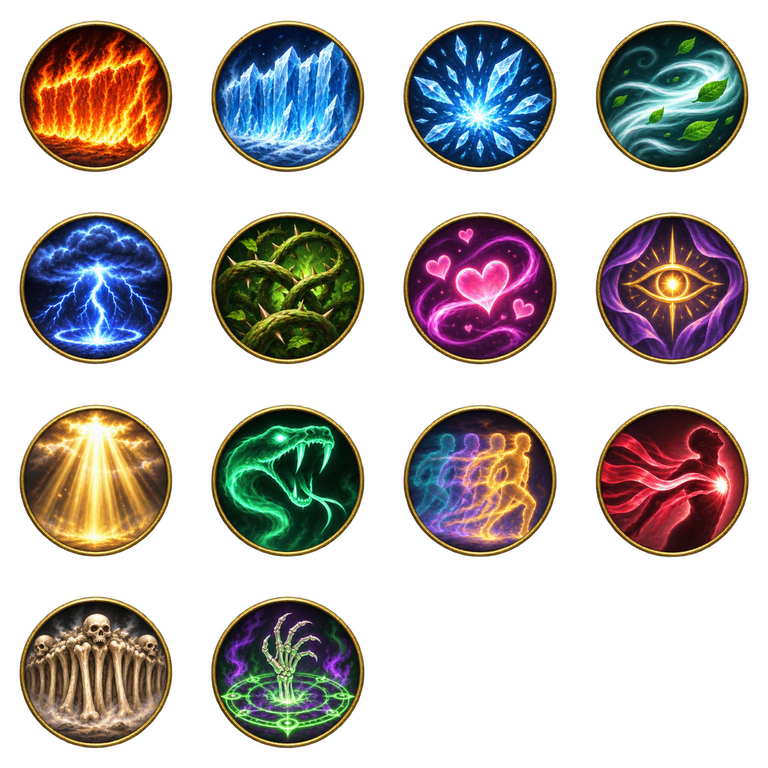
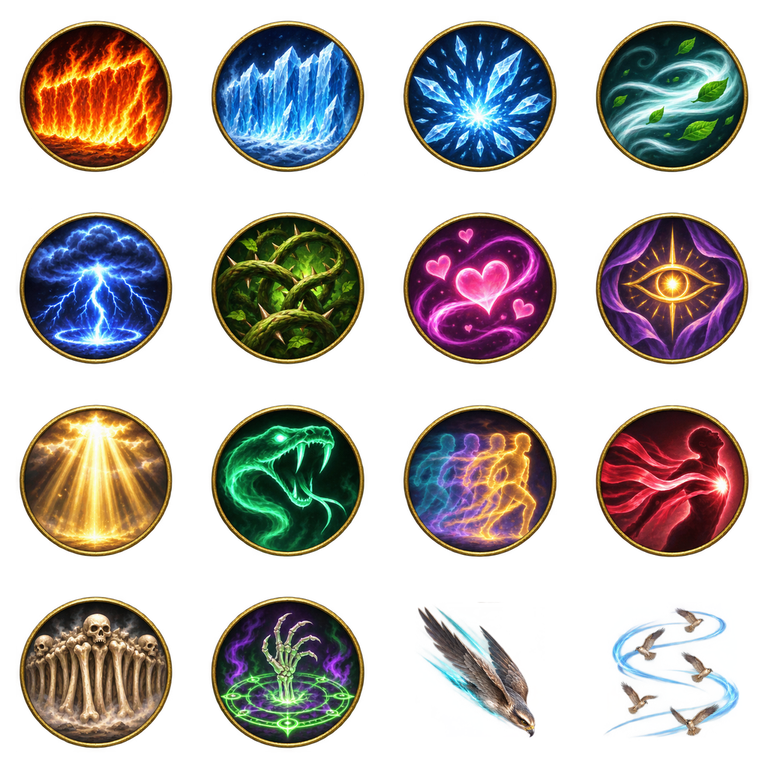
Heroes join: face boxes, ability art for skill 1 and ultimates, looks, titles, counts (work in progress)
Claude-Session: https://claude.ai/code/session_01RRJtWq7egx45cJzfrTnDLa

Changed region(s): [[0.7812, 0.7812, 0.9688, 0.9688], [0.5312, 0.7812, 0.7188, 0.9688]]

diff --git a/src/render/signatures.ts b/src/render/signatures.ts
@@ -649,6 +649,97 @@ export const SIGNATURES: Record<string, Signature> = {
     [s('cone', 'fire-aura', { n: 8, r: 210, z: 2, f: 70 }), s('ripple', 'fire-rune', { n: 3, z: 4.4 }), s('spray', 'fire-sparkle', { n: 16, r: 110, t: 0xffe0a0 })],
     [s('pop', 'fire-vortex', { z: 1.2 })],
   ),
+  // ---- the nine heroes that joined from the twenty: skill 1 and ultimate (docs/notes/heroes-join.md)
+  'Crimson Lunge': sig(
+    [s('orbit', 'blood-sparkle', { n: 6, r: 18 })],
+    [s('dash', 'blood-strike', { z: 2 }), s('spray', 'blood-sparkle', { n:8, t: 0xff2a48 })],
+    [s('pop', 'blood-hit', { z: 1.2 })],
+  ),
+  'Banquet of Blood': sig(
+    [s('orbit', 'blood-sparkle', { n: 6, r: 18 })],
+    [s('flare', 'blood-vortex', { z: 2 }), s('ring', 'blood-circle', { z:3.4, t: 0xc41e3a }), s('inward', 'blood-gather', { n:10, r:60, on:'foes', t: 0xff5a70 })],
+    [s('pop', 'blood-hit', { z: 1.2 })],
+  ),
+  'Sanguine Lash': sig(
+    [s('orbit', 'blood-sparkle', { n: 6, r: 18 })],
+    [s('beam', 'blood-wave', { z: 2 }), s('spray', 'blood-puff', { n:8, t: 0xff6a80 })],
+    [s('pop', 'blood-hit', { z: 1.2 })],
+  ),
+  'Blood Tithe': sig(
+    [s('orbit', 'blood-sparkle', { n: 6, r: 18 })],
+    [s('inward', 'blood-gather', { z: 2 }), s('ring', 'blood-rune', { z:3, t: 0xb01030 }), s('orbit', 'blood-aura', { n:6, r:24, t: 0xff7a8a })],
+    [s('pop', 'blood-hit', { z: 1.2 })],
+  ),
+  'Dusk Dive': sig(
+    [s('orbit', 'dark-sparkle', { n: 6, r: 18 })],
+    [s('meteor', 'dark-flame', { z: 2 }), s('dash', 'dark-puff', { n:6, r:80, a:0.7, t: 0x9070c8 })],
+    [s('pop', 'dark-hit', { z: 1.2 })],
+  ),
+  'Belfry Swoop': sig(
+    [s('orbit', 'dark-sparkle', { n: 6, r: 18 })],
+    [s('flare', 'dark-nova', { z: 2 }), s('ripple', 'dark-wave', { n:3, z:4, t: 0x7a5ac0 }), s('spiral', 'dark-sparkle', { n:10, r:30, t: 0xc0a0ff })],
+    [s('pop', 'dark-hit', { z: 1.2 })],
+  ),
+  'Gargoyle Crash': sig(
+    [s('orbit', 'earth-sparkle', { n: 6, r: 18 })],
+    [s('pop', 'earth-explosion', { z: 2 }), s('ripple', 'earth-nova', { n:2, z:3.2, t: 0xc8b8d0 })],
+    [s('pop', 'earth-hit', { z: 1.2 })],
+  ),
+  'Cathedral Perch': sig(
+    [s('orbit', 'earth-sparkle', { n: 6, r: 18 })],
+    [s('ring', 'earth-vortex', { z: 2 }), s('ripple', 'earth-wave', { n:3, z:4.4, t: 0xb0a8c0 }), s('spray', 'earth-puff', { n:10, r:100, t: 0xd8d0e0 })],
+    [s('pop', 'earth-hit', { z: 1.2 })],
+  ),
+  'Silver Stake': sig(
+    [s('orbit', 'light-sparkle', { n: 6, r: 18 })],
+    [s('beam', 'light-spikes', { z: 2 }), s('spray', 'light-sparkle', { n:8, t: 0xe8f0ff })],
+    [s('pop', 'light-hit', { z: 1.2 })],
+  ),
+  'Silver Requiem': sig(
+    [s('orbit', 'light-sparkle', { n: 6, r: 18 })],
+    [s('fan', 'light-flame', { z: 2 }), s('ripple', 'light-circle', { n:3, z:4, t: 0xc8d8ff }), s('spray', 'light-sparkle', { n:12, r:90, t: 0xf0f4ff })],
+    [s('pop', 'light-hit', { z: 1.2 })],
+  ),
+  'Thunder Beat': sig(
+    [s('orbit', 'lightning-sparkle', { n: 6, r: 18 })],
+    [s('ripple', 'lightning-nova', { z: 2 }), s('spray', 'lightning-sparkle', { n:8, t: 0xffd060 })],
+    [s('pop', 'lightning-hit', { z: 1.2 })],
+  ),
+  'Ten Thousand Drums': sig(
+    [s('orbit', 'lightning-sparkle', { n: 6, r: 18 })],
+    [s('rain', 'lightning-explosion', { z: 2 }), s('ripple', 'lightning-circle', { n:3, z:4, t: 0xffb040 }), s('pillars', 'lightning-spikes', { n:6, r:70, z:1.6, t: 0xfff0b0 })],
+    [s('pop', 'lightning-hit', { z: 1.2 })],
+  ),
+  'Tectonic Shove': sig(
+    [s('orbit', 'earth-sparkle', { n: 6, r: 18 })],
+    [s('pillar', 'earth-strike', { z: 2 }), s('spikes', 'earth-spikes', { n:3, r:80, z:1.6, t: 0xd8a850 })],
+    [s('pop', 'earth-hit', { z: 1.2 })],
+  ),
+  "Mountain's Embrace": sig(
+    [s('orbit', 'earth-sparkle', { n: 6, r: 18 })],
+    [s('dome', 'earth-cross', { z: 2 }), s('ring', 'earth-circle', { z:3, t: 0xe0a040 }), s('spikes', 'earth-spikes', { n:5, r:90, z:1.7, t: 0xc09050 })],
+    [s('pop', 'earth-hit', { z: 1.2 })],
+  ),
+  'Bronze Peal': sig(
+    [s('orbit', 'light-sparkle', { n: 6, r: 18 })],
+    [s('ripple', 'light-nova', { z: 2 }), s('spray', 'light-sparkle', { n:8, t: 0xffd070 })],
+    [s('pop', 'light-hit', { z: 1.2 })],
+  ),
+  'Midnight Knell': sig(
+    [s('orbit', 'dark-sparkle', { n: 6, r: 18 })],
+    [s('ring', 'dark-aura', { z: 2 }), s('ripple', 'dark-circle', { n:3, z:4.4, t: 0x6a48b0 }), s('orbit', 'dark-sparkle', { n:8, r:30, t: 0xb090ff })],
+    [s('pop', 'dark-hit', { z: 1.2 })],
+  ),
+  'Falcon Stoop': sig(
+    [s('orbit', 'wind-sparkle', { n: 6, r: 18 })],
+    [s('meteor', 'wind-explosion', { z: 2 }), s('dash', 'wind-puff', { n:6, r:80, a:0.7, t: 0xe8f0c0 })],
+    [s('pop', 'wind-hit', { z: 1.2 })],
+  ),
+  'Sky Hunt': sig(
+    [s('orbit', 'wind-sparkle', { n: 6, r: 18 })],
+    [s('rain', 'wind-flame', { z: 2 }), s('spiral', 'wind-vortex', { n:5, r:40, z:2, t: 0x8fd8ff }), s('ripple', 'wind-wave', { n:3, z:4.4, t: 0xb8e8ff })],
+    [s('pop', 'wind-hit', { z: 1.2 })],
+  ),
 };
 
 // The original arrangements remain, but every release and corresponding hit has its own authored silhouette.

diff --git a/src/render/skillFx.ts b/src/render/skillFx.ts
@@ -159,6 +159,25 @@ export const SKILL_FX: Record<string, SkillFx> = {
   Bacchanal: { cast: { sheet: 'lightGather', scale: 2.4, tint: 0xffd27a } },
   'Hunt of the Pack': { cast: { sheet: 'earthBurst', scale: 2.4, tint: 0xffb07a } },
   'Heart of the Grove': { cast: { sheet: 'earthBurst', scale: 2.4, tint: 0x8aff5a } },
+  // ---- the nine heroes that joined from the twenty: skill 1 and ultimate (docs/notes/heroes-join.md)
+  'Crimson Lunge': { cast: { sheet: 'bloodExplosion', scale: 1.5 }, hit: { sheet: 'bloodExplosion', scale: 0.9 } },
+  'Banquet of Blood': { cast: { sheet: 'bloodExplosion', scale: 3 }, hit: { sheet: 'bloodExplosion', scale: 1.3 } },
+  'Sanguine Lash': { cast: { sheet: 'bloodExplosion', scale: 1.4 }, hit: { sheet: 'bloodExplosion', scale: 0.9 } },
+  'Blood Tithe': { cast: { sheet: 'bloodExplosion', scale: 2.8 }, hit: { sheet: 'bloodExplosion', scale: 1.1 } },
+  'Dusk Dive': { cast: { sheet: 'darkSlash', scale: 1.6 }, hit: { sheet: 'darkSlash', scale: 1.0 } },
+  'Belfry Swoop': { cast: { sheet: 'darkCircle', scale: 3 }, hit: { sheet: 'darkSlash', scale: 1.3 } },
+  'Gargoyle Crash': { cast: { sheet: 'earthExplosion', scale: 1.6 }, hit: { sheet: 'earthBurst', scale: 1.0 } },
+  'Cathedral Perch': { cast: { sheet: 'earthWave', scale: 3 }, hit: { sheet: 'earthExplosion', scale: 1.3 } },
+  'Silver Stake': { cast: { sheet: 'whiteBurst', scale: 1.4 }, hit: { sheet: 'whiteBurst', scale: 0.9 } },
+  'Silver Requiem': { cast: { sheet: 'lightNova', scale: 3 }, hit: { sheet: 'whiteBurst', scale: 1.3 } },
+  'Thunder Beat': { cast: { sheet: 'lightningBurst', scale: 1.6 }, hit: { sheet: 'lightningStrike', scale: 1.0 } },
+  'Ten Thousand Drums': { cast: { sheet: 'lightningBurst', scale: 3 }, hit: { sheet: 'lightningStrike', scale: 1.3 } },
+  'Tectonic Shove': { cast: { sheet: 'earthBurst', scale: 1.6 }, hit: { sheet: 'earthExplosion', scale: 1.0 } },
+  "Mountain's Embrace": { cast: { sheet: 'earthShield', scale: 2.6 }, hit: { sheet: 'earthExplosion', scale: 1.2 } },
+  'Bronze Peal': { cast: { sheet: 'lightNova', scale: 1.6 }, hit: { sheet: 'lightNova', scale: 0.9 } },
+  'Midnight Knell': { cast: { sheet: 'darkCircle', scale: 3.2 }, hit: { sheet: 'darkSlash', scale: 1.2 } },
+  'Falcon Stoop': { cast: { sheet: 'windBurst', scale: 1.6 }, hit: { sheet: 'windBurst', scale: 1.0 } },
+  'Sky Hunt': { cast: { sheet: 'windVortex', scale: 3 }, hit: { sheet: 'windBurst', scale: 1.3 } },
 };
 
 /** The king's spells: a sheet on each fighter the spell touches (the meteor's is its landing). */

diff --git a/src/render/kitLooks.ts b/src/render/kitLooks.ts
@@ -8,31 +8,22 @@ import type { Element } from './fxRules';
 /** Each new skill: the existing skill whose signature it plays, a tint for it (none keeps the painting's own colours), and its element. */
 export const KIT_LOOKS: Readonly<Record<string, { as: string; tint?: number; el: Element }>> = {
   // (the nine of the twenty that joined: borrowed looks until their own are painted, docs/notes/heroes-join.md)
-  'Crimson Lunge': { as: 'Dive', tint: 0xff4050, el: 'dark' },
   'Impaling Thrust': { as: 'Ravage', tint: 0xff5060, el: 'dark' },
   'Mist Step': { as: 'Shadow Step', tint: 0xd04060, el: 'dark' },
-  'Sanguine Lash': { as: 'Hex', tint: 0xff4060, el: 'dark' },
   'Blood Chalice': { as: 'Sanctuary', tint: 0xff6070, el: 'dark' },
   'Crimson Mist': { as: 'Shadow Step', tint: 0xff5070, el: 'dark' },
-  'Dusk Dive': { as: 'Dive', tint: 0x9878c0, el: 'dark' },
   Abduct: { as: 'Grappling Hook', tint: 0xb090d0, el: 'dark' },
   Echolocation: { as: 'Wind Gust', tint: 0xb090d0, el: 'wind' },
-  'Gargoyle Crash': { as: 'Gore Charge', tint: 0xb8b0c0, el: 'earth' },
   'Stone Slumber': { as: 'Stone Curse', tint: 0xc0b8c8, el: 'earth' },
   'Granite Fist': { as: 'Thousand Fists', tint: 0xc8c0b0, el: 'earth' },
-  'Silver Stake': { as: 'Volley', tint: 0xe8f0ff, el: 'light' },
   'Grapple Vault': { as: 'Grappling Hook', tint: 0xe8f0ff, el: 'wind' },
-  'Silver Shot': { as: 'Burst Fire', tint: 0xe8f0ff, el: 'light' },
-  'Thunder Beat': { as: 'Chain Lightning', tint: 0xffc060, el: 'lightning' },
+  'Quick Bolt': { as: 'Burst Fire', tint: 0xe8f0ff, el: 'light' },
   'Marching Cadence': { as: 'War Banner', tint: 0xffa860, el: 'fire' },
   'Drum Strike': { as: 'Thousand Fists', tint: 0xffb070, el: 'fire' },
-  'Tectonic Shove': { as: 'Gore Charge', tint: 0xd8b878, el: 'earth' },
   'Lodestone Pull': { as: 'Grappling Hook', tint: 0xc8c0a0, el: 'earth' },
   'Crag Staff': { as: 'Thousand Fists', tint: 0xd0b890, el: 'earth' },
-  'Bronze Peal': { as: 'Dirge', tint: 0xffd070, el: 'light' },
   'Echoing Toll': { as: 'Judgement', tint: 0xffd070, el: 'light' },
   'Sanctuary Vault': { as: 'Holy Challenge', tint: 0xffd890, el: 'light' },
-  'Falcon Stoop': { as: 'Dive', tint: 0xf0e0b0, el: 'wind' },
   'Talon Snare': { as: 'Snare Trap', tint: 0xe0c890, el: 'wind' },
   'Gale Vault': { as: 'Wind Gust', tint: 0xe8f0c0, el: 'wind' },
   'Shield Rush': { as: 'Shield Wall', tint: 0xffd27a, el: 'earth' },

diff --git a/src/sim/kits/vampires.ts b/src/sim/kits/vampires.ts
@@ -301,7 +301,7 @@ export function grappleVault(b: Battle, me: Unit, out: BattleEvent[]): boolean {
   return true;
 }
 
-/** Skill 3 — Silver Shot (a jab): a quick silver bolt at the nearest foe in reach; a foe under half its health takes half as much again. */
+/** Skill 3 — Quick Bolt (a jab): a quick silver bolt at the nearest foe in reach; a foe under half its health takes half as much again. */
 export function silverShot(b: Battle, me: Unit, out: BattleEvent[]): boolean {
   const f = nearest(b, me, reachOf(me, 5))[0];
   if (!f) return false;
@@ -390,7 +390,7 @@ export function vampireRows(): Record<string, Row> {
       passive: { name: 'Half-Blood Hunter', text: 'Bolts deal 20% more to foes 4 or more tiles away', far: 0.2 },
       s1: { cls: 'strike', cost: 24, cd: 7000, skill: sk('Silver Stake', 'A heavy silver bolt at the strongest foe within 5 shoves it 2 tiles back; if it slams into a wall or a fighter it is pinned for 1.8s', 500, 'attack', silverStake) },
       s2: { cls: 'guard', cost: 16, cd: 14000, more: { emergency: vaultNeeded }, skill: sk('Grapple Vault', 'With a foe within 2, she hooks a grapple to the safest tile within 3 and vaults there, then looses two silver bolts at the nearest foes, each bleeding', 450, 'attack', (b, me, out) => vaultNeeded(b, me) && grappleVault(b, me, out)) },
-      s3: { cls: 'jab', cost: 10, cd: 3500, skill: sk('Silver Shot', 'A quick silver bolt at the nearest foe in reach; a foe under half its health takes half as much again', 350, 'attack', silverShot) },
+      s3: { cls: 'jab', cost: 10, cd: 3500, skill: sk('Quick Bolt', 'A quick silver bolt at the nearest foe in reach; a foe under half its health takes half as much again', 350, 'attack', silverShot) },
       ultimate: ult('Silver Requiem', 'Vaults to the safest tile within 3 and fires five silver stakes across the strongest foes within 7 tiles, shoving each', 750, silverRequiem, { rate: 1.0, power: 1.6 }),
     },
   };

diff --git a/src/render/individualReleases.ts b/src/render/individualReleases.ts
@@ -110,4 +110,22 @@ export const INDIVIDUAL_RELEASES = {
   "Magma Burst": {"s": "spikes", "z": 2, "n": 3, "r": 80},
   "Forge Hammer": {"s": "drop", "z": 2.7, "on": "target"},
   "Furnace Blast": {"s": "cone", "z": 2.5, "n": 3, "r": 180},
+  "Crimson Lunge": {"s": "dash", "z": 1.9, "n": 3, "r": 100},
+  "Banquet of Blood": {"s": "flare", "z": 4, "on": "target"},
+  "Sanguine Lash": {"s": "beam", "z": 1.7, "n": 3, "r": 120},
+  "Blood Tithe": {"s": "inward", "z": 3, "n": 3, "r": 60, "on": "foes"},
+  "Dusk Dive": {"s": "meteor", "z": 2.3},
+  "Belfry Swoop": {"s": "flare", "z": 3.8, "on": "target"},
+  "Gargoyle Crash": {"s": "pop", "z": 2.6},
+  "Cathedral Perch": {"s": "ring", "z": 3.8, "a": 0.72},
+  "Silver Stake": {"s": "beam", "z": 1.8, "n": 2, "r": 120},
+  "Silver Requiem": {"s": "fan", "z": 2.1, "n": 5, "r": 2.5},
+  "Thunder Beat": {"s": "ripple", "z": 3.2, "n": 3},
+  "Ten Thousand Drums": {"s": "rain", "z": 2.3, "n": 4},
+  "Tectonic Shove": {"s": "pillar", "z": 3.2, "on": "target"},
+  "Mountain's Embrace": {"s": "dome", "z": 3.2},
+  "Bronze Peal": {"s": "ripple", "z": 3.0, "n": 3},
+  "Midnight Knell": {"s": "ring", "z": 3.8, "a": 0.72},
+  "Falcon Stoop": {"s": "meteor", "z": 2.3},
+  "Sky Hunt": {"s": "rain", "z": 2.2, "n": 4},
 } satisfies Record<string, Partial<Step>>;

diff --git a/src/heroFaceRules.ts b/src/heroFaceRules.ts
@@ -54,6 +54,15 @@ export const HUD_FACES: Readonly<Record<string, { art: FaceBox; awakened: FaceBo
   sage: { art: [0.45, 0.17, 0.28], awakened: [0.42, 0.42, 0.4] },
   demonSwordsman: { art: [0.61, 0.21, 0.42], awakened: [0.534, 0.307, 0.344] },
   tyrant: { art: [0.5, 0.2, 0.28], awakened: [0.53, 0.42, 0.35] },
+  vampireLord: { art: [0.44, 0.11, 0.2], awakened: [0.41, 0.44, 0.28] },
+  hemomancer: { art: [0.48, 0.15, 0.2], awakened: [0.52, 0.43, 0.28] },
+  nightstalker: { art: [0.51, 0.1, 0.22], awakened: [0.5, 0.45, 0.28] },
+  bloodGargoyle: { art: [0.5, 0.13, 0.24], awakened: [0.57, 0.4, 0.28] },
+  dhampir: { art: [0.48, 0.12, 0.22], awakened: [0.5, 0.44, 0.26] },
+  warDrummer: { art: [0.4, 0.19, 0.22], awakened: [0.7, 0.43, 0.28] },
+  geomancer: { art: [0.49, 0.1, 0.18], awakened: [0.53, 0.43, 0.28] },
+  bellWarden: { art: [0.4, 0.18, 0.24], awakened: [0.52, 0.37, 0.26] },
+  falconer: { art: [0.53, 0.1, 0.2], awakened: [0.63, 0.43, 0.28] },
 };
 
 /** The painting a hero's face is cut from: the awakened form's once it has awakened, else the plain art's half-length portrait. */

diff --git a/src/render/abilityArt.ts b/src/render/abilityArt.ts
@@ -16,6 +16,8 @@ import a7 from '../art/fx/abilities/atlas-7.png';
 import a8 from '../art/fx/abilities/atlas-8.png';
 // (KING-SPELLS batch 5: the schools' fourteen spells' own emblems, `tools/king-spells/icons.py`)
 import a9 from '../art/fx/abilities/atlas-9.png';
+// (the nine heroes joined from the twenty: their skill 1 and ultimate paintings, `tools/heroes-20/import-ability-icons.py`)
+import a10 from '../art/fx/abilities/atlas-10.png';
 
 const bases = new Map<string, Texture>();
 const frames = new Map<string, Texture[]>();
@@ -23,7 +25,7 @@ let loading: Promise<void> | undefined;
 
 export function loadAbilityArt(): Promise<void> {
   return loading ??= (async () => {
-    const images = await Promise.all([a0,a1,a2,a3,a4,a5,a6,a7,a8,a9].map(loadImage));
+    const images = await Promise.all([a0,a1,a2,a3,a4,a5,a6,a7,a8,a9,a10].map(loadImage));
     for (const row of ABILITY_ART) {
       const image = images[row.atlas];
       const columns = row.atlas === 8 ? 1 : 4;

diff --git a/src/render/fxRules.ts b/src/render/fxRules.ts
@@ -193,6 +193,25 @@ export const SKILL_ELEMENT: Record<string, Element> = {
   Bacchanal: 'forest',
   'Hunt of the Pack': 'forest',
   'Heart of the Grove': 'forest',
+  // ---- the nine heroes that joined from the twenty: skill 1 and ultimate (docs/notes/heroes-join.md)
+  'Crimson Lunge': 'blood',
+  'Banquet of Blood': 'blood',
+  'Sanguine Lash': 'blood',
+  'Blood Tithe': 'blood',
+  'Dusk Dive': 'dark',
+  'Belfry Swoop': 'dark',
+  'Gargoyle Crash': 'earth',
+  'Cathedral Perch': 'earth',
+  'Silver Stake': 'light',
+  'Silver Requiem': 'light',
+  'Thunder Beat': 'lightning',
+  'Ten Thousand Drums': 'lightning',
+  'Tectonic Shove': 'earth',
+  "Mountain's Embrace": 'earth',
+  'Bronze Peal': 'light',
+  'Midnight Knell': 'dark',
+  'Falcon Stoop': 'wind',
+  'Sky Hunt': 'wind',
 };
 
 export const skillElement = (name: string): Element => SKILL_ELEMENT[name] ?? kitElement(name) ?? 'light';

diff --git a/test/ultimates.test.ts b/test/ultimates.test.ts
@@ -42,7 +42,7 @@ const cast = (b: Battle, me: Unit): BattleEvent[] => {
 };
 
 test('every hero has an ultimate, and it charges slower than the skill', () => {
-  assert.equal(ALL_HEROES.length, 45);
+  assert.equal(ALL_HEROES.length, 54);
   for (const k of ALL_HEROES) assert.ok(KITS[k].ultimate, `${k} has an ultimate`);
   // (no two heroes share one)
   const names = ALL_HEROES.map((k) => keyOf(KITS[k].ultimate!));
@@ -57,7 +57,7 @@ test('every hero has an ultimate, and it charges slower than the skill', () => {
   assert.equal(ultimateReady(u), false);
 });
 
-test('all 45 ultimates unlock at level 30, the first eight\'s too', () => {
+test('all 54 ultimates unlock at level 30, the first eight\'s too', () => {
   for (const k of ALL_HEROES) assert.equal(KITS[k].ultimate!.unlock, ULT_LEVEL, k);
   assert.equal(ULT_LEVEL, 30);
   const b = arena();

diff --git a/src/sim/heroNames.ts b/src/sim/heroNames.ts
@@ -61,7 +61,7 @@ export const HERO_NAMES: Record<string, HeroName> = {
   sage: { name: 'Seydou', title: 'Reader of the Stars', heritage: 'Malian' },
   demonSwordsman: { name: 'Aram', title: 'Host of the Hungry Steel', heritage: 'Armenian' },
   tyrant: { name: 'Edmund', title: 'the Unbending Verdict', heritage: 'English' },
-  vampireLord: { name: 'Vladislav', title: 'Voivode of the Red Keep', heritage: 'Romanian (Wallachian)' },
+  vampireLord: { name: 'Vladislav', title: 'Red Keep Voivode', heritage: 'Romanian (Wallachian)' },
   hemomancer: { name: 'Carmilla', title: 'Countess of the Chalice', heritage: 'Austrian (Styrian)' },
   nightstalker: { name: 'Sorin', title: 'Wing of the Crypt', heritage: 'a Transylvanian strigoi' },
   bloodGargoyle: { name: 'Gavril', title: 'Stone Sentinel of the Fane', heritage: 'a cathedral gargoyle' },

diff --git a/test/cinematics.test.ts b/test/cinematics.test.ts
@@ -296,7 +296,7 @@ test('every hero has an awakening scene (their own sheet, their new look), and t
     // (the new look is switched on in the scene, once the light comes)
     assert.ok(sc.shots.some((s) => s.acts?.some((a) => 'look' in a && a.look === 1)), k);
   }
-  assert.equal(ALL_HEROES.filter((k) => dueScene(m, { kind: 'awaken', hero: k })).length, 45);
+  assert.equal(ALL_HEROES.filter((k) => dueScene(m, { kind: 'awaken', hero: k })).length, 54);
   for (const c of CONTENT_HEROES) assert.equal(dueScene(m, { kind: 'earned', hero: c.kind }), `earned:${c.kind}`);
   assert.equal(dueScene(m, { kind: 'earned', hero: 'knight' }), null, 'a hero not earned by play has no arrival');
 });

diff --git a/test/stats.test.ts b/test/stats.test.ts
@@ -13,7 +13,7 @@ const row = (s: Scores) => ABILITIES.map((a) => s[a]).join(' ');
 const p = (kind: string) => STAT_PROFILES[kind];
 
 test('every hero has a profile, and only heroes do', () => {
-  assert.equal(ALL_HEROES.length, 45);
+  assert.equal(ALL_HEROES.length, 54);
   assert.deepEqual(Object.keys(STAT_PROFILES).sort(), [...ALL_HEROES].sort());
 });
 
